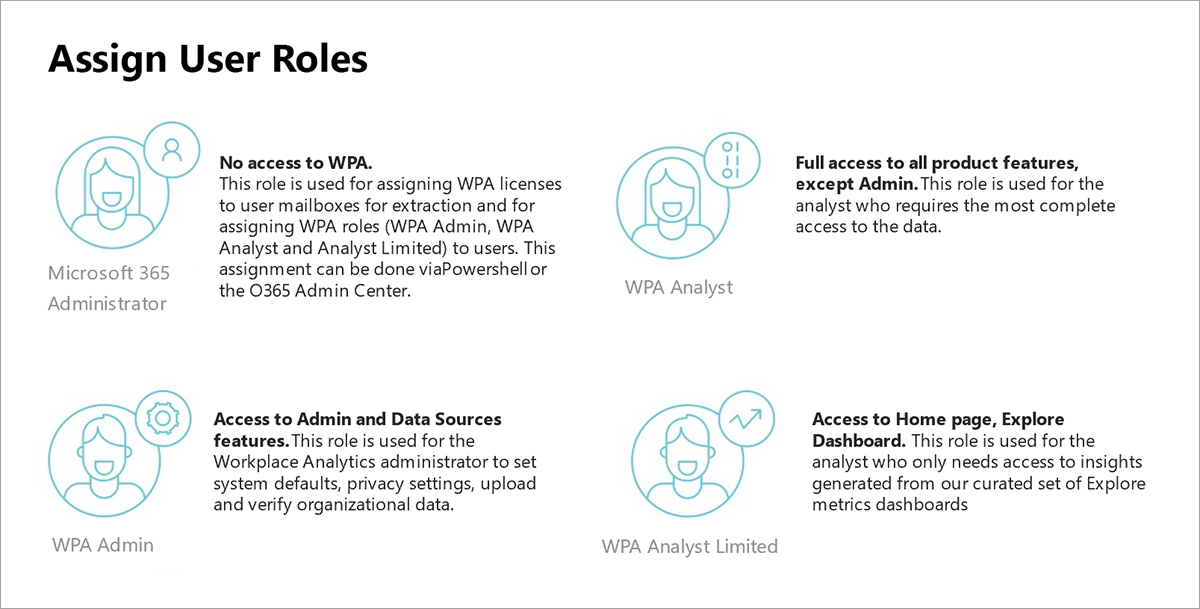
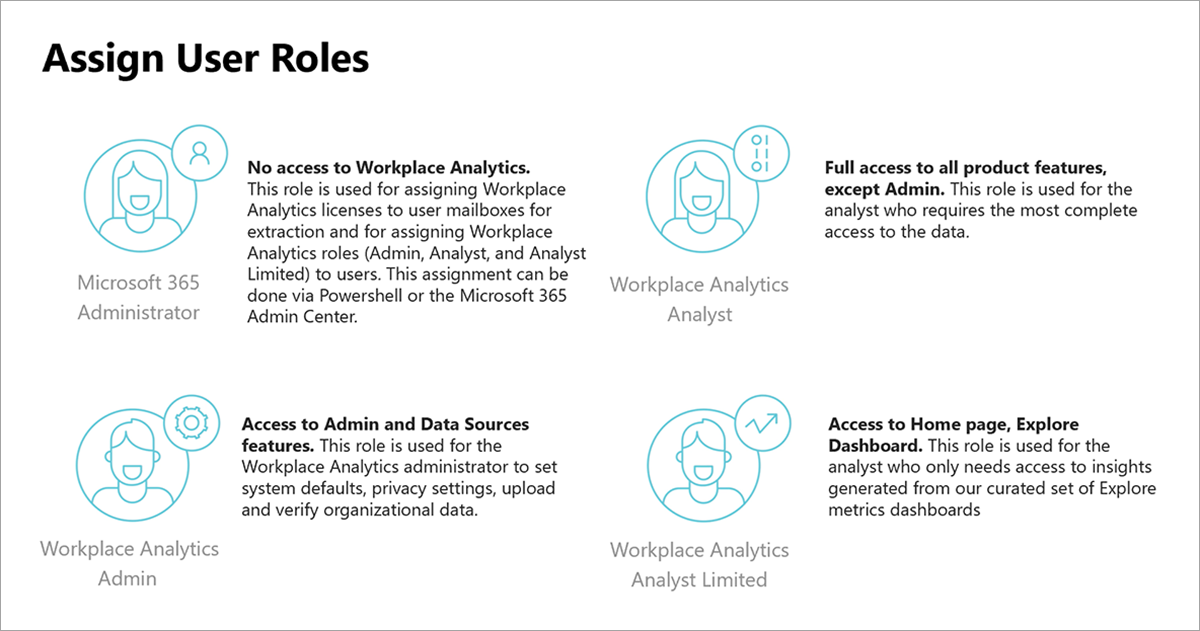
fixed issues with graphics identified in PR review

diff --git a/learn-m365-pr/m365/workplace-analytics-onboard/includes/prepare-data.md b/learn-m365-pr/m365/workplace-analytics-onboard/includes/prepare-data.md
@@ -37,7 +37,7 @@ For these five required attributes, every row in the file must have a non-blank 
 ## Which employees to include
 **All employees should be included in your organizational data file**, whether or not they are assigned Workplace Analytics licenses. This lets you  measure how employees in the analysis population work with other employees across the organization.
 
-:::image type="content" source="../media/which-employees-include.png" alt-text="A graphic shows first an example scenario - the admin assigned licenses to only employees in the United States, but they want to understand how those US employees invested their time with employees across the globe. Then there are two pie charts that compare the time those US employees devoted to other US employees versus all users.":::
+:::image type="content" source="../media/which-employees-include.png" border="false" alt-text="A graphic shows first an example scenario - the admin assigned licenses to only employees in the United States, but they want to understand how those US employees invested their time with employees across the globe. Then there are two pie charts that compare the time those US employees devoted to other US employees versus all users.":::
 
 ## Additional data attributes
 The first time that you activate Workplace Analytics you need just the five *required* attributes. There are more than 100 additional *optional* attributes that you can use, based on the analyses you want to conduct and how you want to group your data. The following table shows some examples of these attributes. Additional data attributes are optional, and you can append them to the organizational file at any time.  

diff --git a/learn-m365-pr/m365/workplace-analytics-onboard/includes/assign-roles.md b/learn-m365-pr/m365/workplace-analytics-onboard/includes/assign-roles.md
@@ -1,6 +1,6 @@
 Workplace Analytics includes four user roles, with different data-access rights and responsibilities:
 
-:::image type="content" source="../media/assign-user-roles.png" alt-text="<A graphic shows the four user roles available in Workplace Analytics. Each role includes an avatar or user image and description of the roles. Scroll down for text descriptions of those user roles.>":::
+:::image type="content" source="../media/assign-user-roles.png" border="false" alt-text="A graphic shows the four user roles available in Workplace Analytics. Each role includes an avatar or user image and description of the roles. Scroll down for text descriptions of those user roles.":::
 
 - The **Microsoft 365 administrator** assigns Workplace Analytics licenses to user mailboxes and the other Workplace Analytics roles to users. This role doesn't have access to the Workplace Analytics application (unless they assign themselves one of the Workplace Analytics roles).
 - The **Workplace Analytics administrator** sets system defaults and privacy settings for your company's Workplace Analytics environment and is responsible for uploading and verifying organizational/HR data. This role can access the **Settings** menu, and through it, the **Data sources**, **Upload**, and **Admin settings** pages.

diff --git a/learn-m365-pr/m365/workplace-analytics-onboard/includes/roles-responsibilities.md b/learn-m365-pr/m365/workplace-analytics-onboard/includes/roles-responsibilities.md
@@ -17,4 +17,4 @@ This group will:
 
 The Microsoft 365 administrator assigns licenses and user roles (steps 1 and 2). The Workplace Analytics administrator confirms Workplace Analytics settings and uploads the organizational data file (steps 3 and 4).
 
-:::image type="content" source="../media/setup-onboarding.png" alt-text="<A graphic shows four steps for onboarding. Under the heading Microsoft 365 tenant admin are steps 1, Scope the analysis population, and 2, Control who has what access. Under the heading Workplace Analytics Admin are steps 3, Manage protection of sensitive data, and 4, Adjust availability of employee descriptive data.>":::
+:::image type="content" source="../media/setup-onboarding.png" border="false" alt-text="<A graphic shows four steps for onboarding. Under the heading Microsoft 365 tenant admin are steps 1, Scope the analysis population, and 2, Control who has what access. Under the heading Workplace Analytics Admin are steps 3, Manage protection of sensitive data, and 4, Adjust availability of employee descriptive data.>":::

diff --git a/learn-m365-pr/m365/workplace-analytics-onboard/includes/licenses.md b/learn-m365-pr/m365/workplace-analytics-onboard/includes/licenses.md
@@ -4,4 +4,4 @@ The Office 365 tenant administrator can use group-based licensing or Windows Pow
 
 It's important to note that assigning a Workplace Analytics license to a mailbox does not change the employee's day-to-day experience. 
 
-:::image type="content" source="../media/assign-licenses.png" alt-text="A graphic that shows the steps for assigning licenses. A license image with a human face represents the work to identify who to include in the analysis population. A face with a download symbol represents the Microsoft 365 tenant administrator who assigns licenses.":::
+:::image type="content" source="../media/assign-licenses.png" border="false" alt-text="A graphic that shows the steps for assigning licenses. A license image with a human face represents the work to identify who to include in the analysis population. A face with a download symbol represents the Microsoft 365 tenant administrator who assigns licenses.":::
